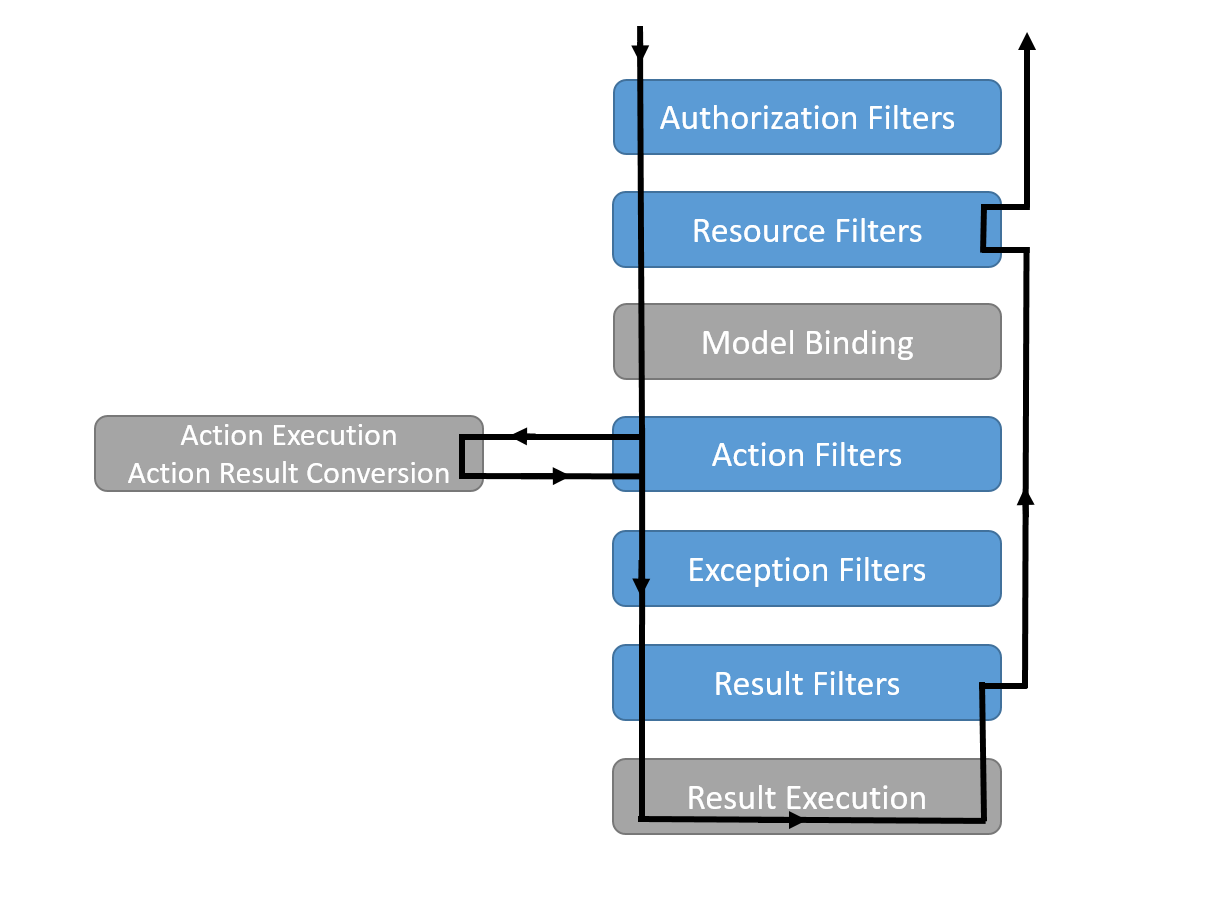
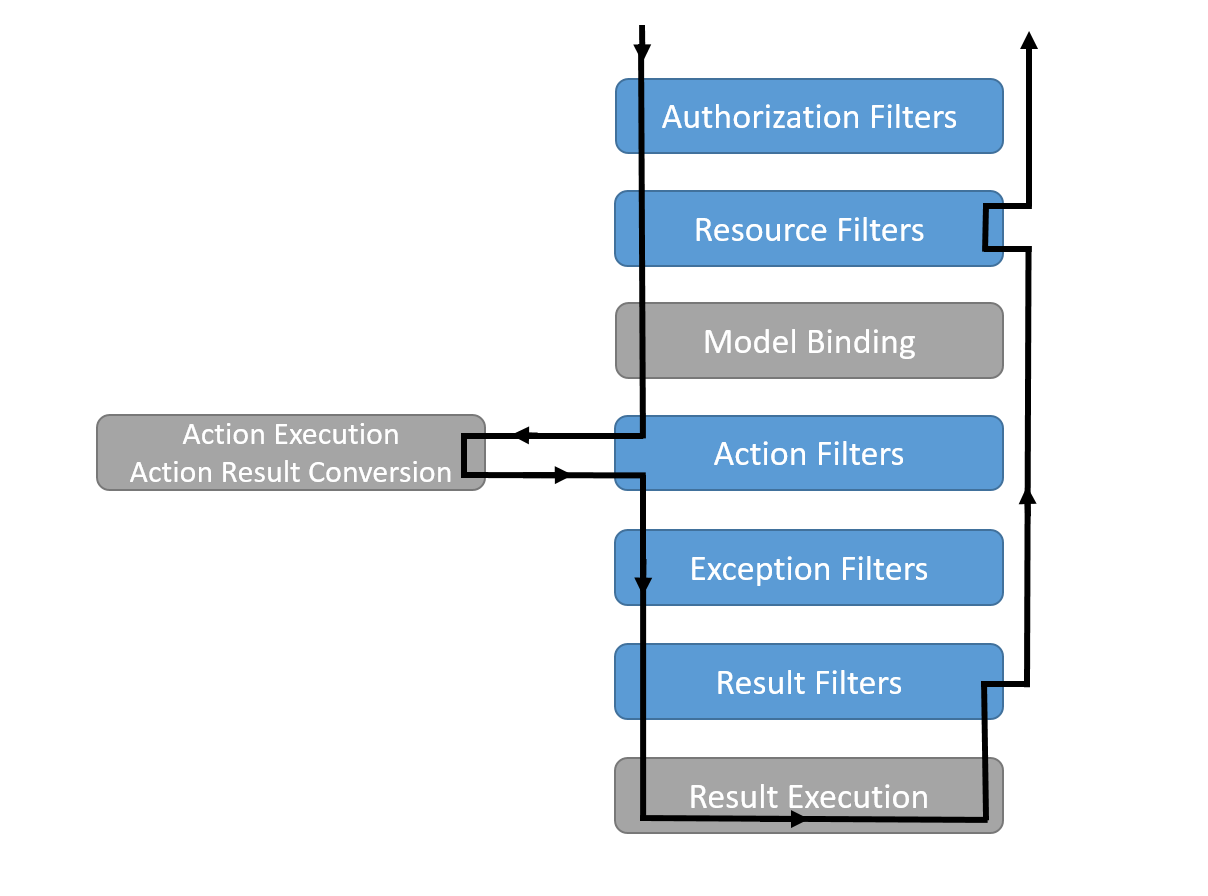
Added sample Updated figure

Changed region(s): [[0.0613, 0.0312, 0.8576, 0.9375]]

diff --git a/aspnet/mvc/controllers/filters/sample/src/FiltersSample/Filters/SampleResourceFilterAttribute.cs b/aspnet/mvc/controllers/filters/sample/src/FiltersSample/Filters/SampleResourceFilterAttribute.cs
@@ -1,0 +1,45 @@
+using System;
+using System.Threading.Tasks;
+using Microsoft.AspNet.Http;
+using Microsoft.AspNet.Mvc.Filters;
+using Microsoft.Extensions.Logging;
+
+namespace FiltersSample.Filters
+{
+    public class SampleResourceFilterAttribute : Attribute,
+            IResourceFilter, IAsyncResourceFilter
+    {
+        public string Name { get; }
+
+        public SampleResourceFilterAttribute(string name)
+        {
+            Name = name;
+        }
+
+        public async Task OnResourceExecutionAsync(ResourceExecutingContext context, ResourceExecutionDelegate next)
+        {
+            var loggerFactory = (LoggerFactory)context.HttpContext.RequestServices.GetService(typeof(ILoggerFactory));
+            var logger = loggerFactory.CreateLogger(nameof(SampleResourceFilterAttribute));
+            logger.LogInformation($"OnResourceExecutionAsync for {Name}");
+
+            OnResourceExecuting(context);
+            OnResourceExecuted(await next());
+        }
+
+        public void OnResourceExecuting(ResourceExecutingContext context)
+        {
+            var loggerFactory = (LoggerFactory)context.HttpContext.RequestServices.GetService(typeof (ILoggerFactory));
+            var logger = loggerFactory.CreateLogger(nameof(SampleResourceFilterAttribute));
+            logger.LogInformation($"OnResourceExecuting for {Name}");
+            context.HttpContext.Response.Headers.Append("filters", Name + " - OnResourceExecuting");
+        }
+
+        public void OnResourceExecuted(ResourceExecutedContext context)
+        {
+            var loggerFactory = (LoggerFactory)context.HttpContext.RequestServices.GetService(typeof (ILoggerFactory));
+            var logger = loggerFactory.CreateLogger(nameof(SampleResourceFilterAttribute));
+            logger.LogInformation($"OnResourceExecuted for {Name}");
+            context.HttpContext.Response.Headers.Append("filters", Name + " - OnResourceExecuted");
+        }
+    }
+}

diff --git a/aspnet/mvc/controllers/filters/sample/src/FiltersSample/Startup.cs b/aspnet/mvc/controllers/filters/sample/src/FiltersSample/Startup.cs
@@ -1,0 +1,36 @@
+using Microsoft.AspNet.Builder;
+using Microsoft.AspNet.Hosting;
+using Microsoft.AspNet.Http;
+using Microsoft.Extensions.DependencyInjection;
+using Microsoft.Extensions.Logging;
+
+namespace FiltersSample
+{
+    public class Startup
+    {
+        // This method gets called by the runtime. Use this method to add services to the container.
+        // For more information on how to configure your application, visit http://go.microsoft.com/fwlink/?LinkID=398940
+        public void ConfigureServices(IServiceCollection services)
+        {
+            services.AddMvc();
+        }
+
+        // This method gets called by the runtime. Use this method to configure the HTTP request pipeline.
+        public void Configure(IApplicationBuilder app,
+            ILoggerFactory loggerFactory)
+        {
+            loggerFactory.AddConsole(minLevel: LogLevel.Verbose);
+            app.UseIISPlatformHandler();
+
+            app.UseMvc(routes =>
+            {
+                routes.MapRoute(
+                    name: "default",
+                    template: "{controller=Home}/{action=Index}/{id?}");
+            });
+        }
+
+        // Entry point for the application.
+        public static void Main(string[] args) => WebApplication.Run<Startup>(args);
+    }
+}

diff --git a/aspnet/mvc/controllers/filters/sample/src/FiltersSample/Controllers/HomeController.cs b/aspnet/mvc/controllers/filters/sample/src/FiltersSample/Controllers/HomeController.cs
@@ -1,0 +1,14 @@
+using FiltersSample.Filters;
+using Microsoft.AspNet.Mvc;
+
+namespace FiltersSample.Controllers
+{
+    [SampleResourceFilter("Home")]
+    public class HomeController : Controller
+    {
+        public IActionResult Index()
+        {
+            return View();
+        }
+    }
+}

diff --git a/aspnet/mvc/controllers/filters.rst b/aspnet/mvc/controllers/filters.rst
@@ -32,6 +32,12 @@ Asynchronous filters define a single On*Stage*ExectionAsync method that will sur
 
 EXAMPLE
 
+In most cases, you can implement both the async and synchronous interfaces at the same time.
+
+Filters and Attributes
+^^^^^^^^^^^^^^^^^^^^^^
+Most of the time, filter interfaces are applied to *Attributes*. These attributes are used to apply the filter to certain controllers or action methods.
+
 Cancellation and Short Circuiting
 ^^^^^^^^^^^^^^^^^^^^^^^^^^^^^^^^^
 asdf
@@ -45,21 +51,45 @@ Scope
 -----
 Filter can be applied per-action method (via attribute) or via controller (via attribute), or in global filters collection. Scope also generally determines ordering. The filter closest to the action runs first; generally you get overriding behavior without having to explicitly set ordering.
 
-Action Filters
---------------
-*Action Filters implement either the ``IActionFilter`` or ``IAsyncActionFilter`` interface and their execution surrounds the execution of action methods. Action filters are ideal for any logic that needs to see the results of model binding, or modify the controller or inputs to an action method. Additionally, action filters can view and directly modify the result of an action method.
-
-Result Filters
---------------
-
-Exception Filters
------------------
-
 Authorization Filters
 ---------------------
+*Authorization Filters* control access to action methods, and are the first filters to be executed within the filter pipeline. They are covered in the :doc:`Security </security/index>` section of the documentation.
+
+Learn more about :doc:`/security/authorization/authorization-filters`.
 
 Resource Filters
 ----------------
+*Resource Filters* implement...
+
+Action Filters
+--------------
+*Action Filters* implement either the ``IActionFilter`` or ``IAsyncActionFilter`` interface and their execution surrounds the execution of action methods. Action filters are ideal for any logic that needs to see the results of model binding, or modify the controller or inputs to an action method. Additionally, action filters can view and directly modify the result of an action method.
+
+As the `OnActionExecuting` method runs before the action method, it can manipulate the inputs to the action by changing `ActionExecutingContext.ActionArguments` or manipulate the controller through `ActionExecutingContext.Controller`. An `OnActionExecuting` method can short-circuit execution of the action method and subsequent action filters by setting `ActionExecutingContext.Result`. Throwing an exception in an `OnActionExecuting` method will also prevent execution of the action method and subsequent filters, but will be treated as a failure instead of successful result.
+
+The `OnActionExecuted` method runs after the action method, and can see and manipulate the results of the action through the `ActionExecutedContext.Result` property. `ActionExecutedContext.Canceled` will be set to true if the action execution was short-circuited by another filter. `ActionExecutedContext.Exception` will be set to a non-null value if the action or a subsequent action filter threw an exception. Setting `ActionExecutedContext.Exception` to null effectively 'handles' an exception, and `ActionExectedContext.Result` will be executed as if it were returned from the action method normally.
+
+For an `IAsyncActionFilter` the `OnActionExecutionAsync` combines all the possibilites of `OnActionExecuting` and `OnActionExecuted`. A call to `await next()` on the `ActionExecutionDelegate` will execute any subsequent action filters and the action method, returning an `ActionExecutedContext`. To short-circuit inside of an `OnActionExecutionAsync`, set `ActionExecutingContext.Result` and do not call the `ActionExectionDelegate`.
+
+Exception Filters
+-----------------
+*Exception Filters* implement...
+
+Exception filters handle unhandled exceptions. They are only called when an exception occurs later in the pipeline. They can provide a single location to implement common error handling policies within an app. 
+
+
+Result Filters
+--------------
+*Result Filters* implement either the ``IResultFilter`` or ``IAsyncResultFilter`` interface and their execution surrounds the execution of action results. Result filters are only executed for successful results - when the action or action filters produces an action result. Result filters are not executed when exception filters handle an exception.
+
+Result filters are ideal for any logic that needs to directly surround view execution or formatter execution. Result filters can replace or modify the action result that's responsible for producing the response.
+
+As the `OnResultExecuting` method runs before the action action, it can manipulate the action result through `ResultExecutingContext.Result`. An `OnResultExecuting` method can short-circuit execution of the action result and subsequent result filters by setting `ResultExecutingContext.Cancel` to true. If short-circuited, MVC will not modify the response; take care to write to the response object directly when short-circuiting. Throwing an exception in an `OnResultExecuting` method will also prevent execution of the action result and subsequent filters, but will be treated as a failure instead of successful result.
+
+The `OnResultExecuted` method runs after the action action, at this point if no exception was thrown, the response has likely be sent to the client and cannot be changed further. `ResultExecutedContext.Canceled` will be set to true if the action result execution was short-circuited by another filter. `ResultExecutedContext.Exception` will be set to a non-null value if the action result or a subsequent result filter threw an exception. Setting `ResultExecutedContext.Exception` to null effectively 'handles' an exception and will prevent the exeception from being rethrown by MVC later in the pipeline. If handling an exception in a result filter, consider whether or not it's appropriate to write any data to the response. The action result may have thrown partway through its execution, and if the headers have already been flushed to the client there's no proper recourse to send a failure status code. 
+
+For an `IAsyncResultFilter` the `OnResultExecutionAsync` combines all the possibilites of `OnAResultExecuting` and `OnResultExecuted`. A call to `await next()` on the `ResultExecutionDelegate` will execute any subsequent result filters and the action result, returning a `ResultExecutedContext`. To short-circuit inside of an `OnResultExecutionAsync`, set `ResultExecutingContext.Cancel` to true and do not call the `ResultExectionDelegate`.
+
 
 Filters vs. Middleware
 ----------------------
